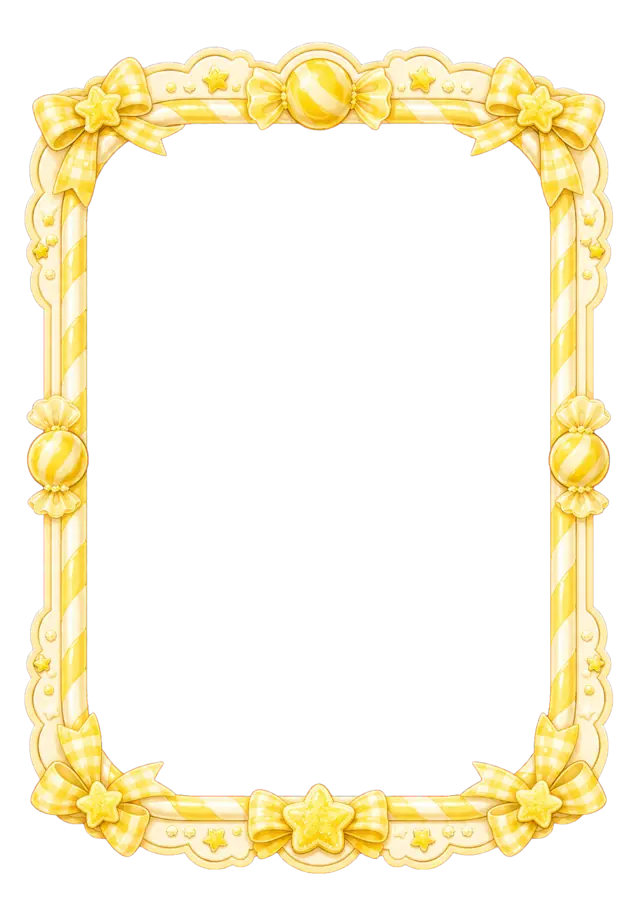
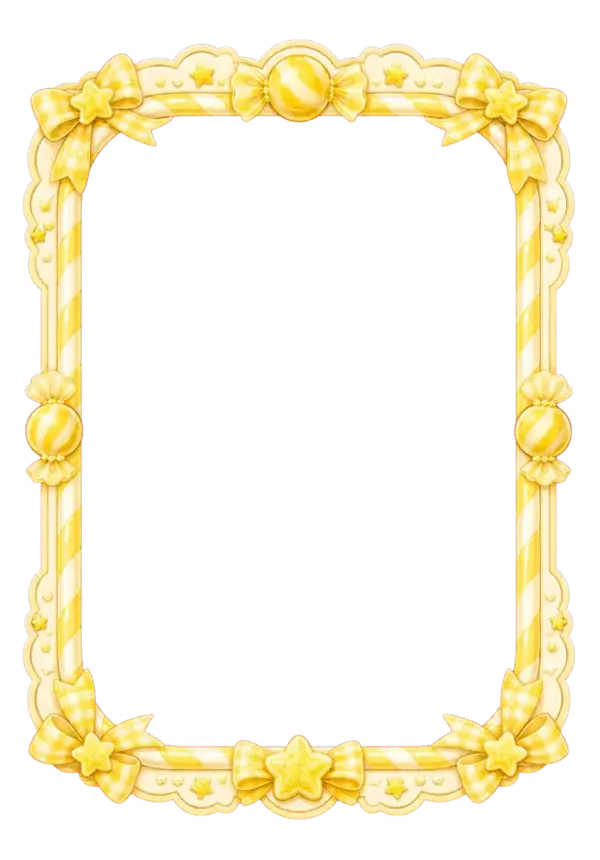
Align card framing and soften rarity glow

diff --git a/src/App.jsx b/src/App.jsx
@@ -287,6 +287,9 @@ export default function IdolZukan() {
           --lilac: #a777ef;
           --mint: #55cfae;
           --paper: url('/assets/textures/pearl-ui-surface.webp');
+          --card-ratio: 3 / 4.3;
+          --photo-window-inset: 5.3%;
+          --photo-position: 50% 50%;
           font-family: -apple-system, "Hiragino Sans", "Noto Sans JP", system-ui, sans-serif;
           background:
             linear-gradient(rgba(255,247,251,.76), rgba(255,247,251,.86)),
@@ -373,38 +376,43 @@ export default function IdolZukan() {
         }
 
         .grid { max-width: 1080px; margin: 0 auto; display: grid; grid-template-columns: repeat(auto-fill, minmax(168px, 1fr)); gap: 31px 21px; }
-        .card-slot { aspect-ratio: 3 / 4.3; position: relative; }
+        .card-slot { aspect-ratio: var(--card-ratio); position: relative; }
 
         .card-frame {
           position: relative; width: 100%; height: 100%; box-sizing: border-box; isolation: isolate;
         }
         .card-frame.rarity-SSR::before,
         .card-frame.rarity-UR::before {
-          content: ""; position: absolute; inset: -8%; z-index: -1; border-radius: 34%;
-          filter: blur(17px); animation: pulse-glow 2.7s ease-in-out infinite;
+          content: ""; position: absolute; inset: -5%; z-index: -1; border-radius: 34%;
+          filter: blur(23px); animation: pulse-glow 2.7s ease-in-out infinite;
+          pointer-events: none; will-change: opacity, transform;
         }
-        .card-frame.rarity-SSR::before { background: radial-gradient(ellipse, #a84dff 0%, #ffd766 48%, transparent 72%); opacity: .48; }
+        .card-frame.rarity-SSR::before {
+          --glow-low: .12; --glow-high: .26;
+          background: radial-gradient(ellipse, rgba(168,77,255,.86) 0%, rgba(255,215,102,.5) 42%, transparent 70%);
+        }
         .card-frame.rarity-UR::before {
-          background: conic-gradient(from 0deg, #FF6FA0, #FFD766, #5FD9B9, #6FA8FF, #B84DFF, #FF6FA0);
-          opacity: .46; animation: pulse-glow 2.7s ease-in-out infinite, hue-cycle 5.5s linear infinite;
+          --glow-low: .11; --glow-high: .24;
+          background: conic-gradient(from 0deg, rgba(255,111,160,.76), rgba(255,215,102,.72), rgba(95,217,185,.7), rgba(111,168,255,.72), rgba(184,77,255,.76), rgba(255,111,160,.76));
+          animation: pulse-glow 2.7s ease-in-out infinite, hue-cycle 5.5s linear infinite;
         }
-        @keyframes pulse-glow { 0%,100% { opacity: .28; transform: scale(.94); } 50% { opacity: .62; transform: scale(1.04); } }
-        @keyframes hue-cycle { from { filter: blur(17px) hue-rotate(0deg); } to { filter: blur(17px) hue-rotate(360deg); } }
+        @keyframes pulse-glow { 0%,100% { opacity: var(--glow-low, .12); transform: scale(.98); } 50% { opacity: var(--glow-high, .26); transform: scale(1.045); } }
+        @keyframes hue-cycle { from { filter: blur(23px) hue-rotate(0deg); } to { filter: blur(23px) hue-rotate(360deg); } }
         @keyframes gradient-shift { to { background-position: 300% 0; } }
 
         .candy-card {
           all: unset; box-sizing: border-box; display: block; cursor: pointer;
-          position: absolute; inset: 4.2% 5.3%; z-index: 1;
+          position: absolute; inset: var(--photo-window-inset); z-index: 1;
           background: white; border-radius: 16%; overflow: hidden;
           box-shadow: 0 13px 25px -13px rgba(74,46,67,.62), 0 3px 0 rgba(255,255,255,.8) inset;
           transition: transform .2s cubic-bezier(.2,.7,.2,1), filter .2s ease;
         }
         .card-frame:hover .candy-card { transform: translateY(-5px) rotate(-.8deg) scale(1.015); filter: saturate(1.04); }
         .candy-card:focus-visible { outline: 3px solid var(--rarity-solid); outline-offset: 4px; }
-        .candy-card.is-glow { box-shadow: 0 16px 29px -14px var(--rarity-solid), 0 3px 0 rgba(255,255,255,.85) inset; }
+        .candy-card.is-glow { box-shadow: 0 14px 27px -19px rgba(50,22,42,.52), 0 3px 0 rgba(255,255,255,.85) inset; }
 
         .card-frame-art, .modal-frame-art {
-          position: absolute; inset: 0; width: 100%; height: 100%; object-fit: fill;
+          position: absolute; inset: 0; width: 100%; height: 100%; object-fit: contain;
           pointer-events: none; user-select: none; z-index: 5;
         }
 
@@ -428,7 +436,9 @@ export default function IdolZukan() {
         }
         .portrait::after { content: ""; position: absolute; inset: 0; background: linear-gradient(180deg, transparent 54%, rgba(67,30,55,.26) 100%); pointer-events: none; }
         .portrait-glyph { font-size: 40px; font-weight: 900; color: white; text-shadow: 0 3px 0 rgba(0,0,0,.08); }
-        .portrait-photo { width: 100%; height: 100%; object-fit: cover; }
+        .portrait-photo, .frame-photo-img {
+          width: 100%; height: 100%; object-fit: cover; object-position: var(--photo-position);
+        }
         .sparkle { position: absolute; color: white; opacity: 0.85; font-size: 14px; }
         .sparkle-a { top: 12px; left: 14px; }
         .sparkle-b { bottom: 14px; right: 16px; font-size: 11px; }
@@ -483,7 +493,7 @@ export default function IdolZukan() {
         .modal-close:hover { color: var(--pink); transform: scale(1.05); }
         .modal-close:focus-visible { outline: 3px solid rgba(255,255,255,.7); outline-offset: 3px; }
 
-        .flip-container { width: 100%; aspect-ratio: 3 / 4.3; cursor: pointer; perspective: 1400px; }
+        .flip-container { width: 100%; aspect-ratio: var(--card-ratio); cursor: pointer; perspective: 1400px; }
         .flip-card {
           position: relative; width: 100%; height: 100%;
           transform-style: preserve-3d; transition: transform 0.6s cubic-bezier(.4,.2,.2,1);
@@ -507,15 +517,16 @@ export default function IdolZukan() {
           filter: drop-shadow(0 19px 18px rgba(42,16,34,.36));
         }
         .flip-face.flip-front .modal-glow {
-          position: absolute; inset: -10%; z-index: -1; border-radius: 38%;
-          background: radial-gradient(circle, var(--rarity-solid) 0%, transparent 70%);
-          filter: blur(27px); opacity: .52; animation: pulse-glow 2.7s ease-in-out infinite;
+          --glow-low: .14; --glow-high: .28;
+          position: absolute; inset: -6%; z-index: -1; border-radius: 38%;
+          background: radial-gradient(circle, color-mix(in srgb, var(--rarity-solid) 76%, transparent) 0%, transparent 68%);
+          filter: blur(32px); animation: pulse-glow 2.7s ease-in-out infinite;
+          pointer-events: none; will-change: opacity, transform;
         }
 
         .ornate-frame { position: relative; width: 100%; height: 100%; border-radius: 26px; }
-        .frame-photo { position: absolute; inset: 4.2% 5.3%; border-radius: 16%; overflow: hidden; background: linear-gradient(160deg, var(--accent) 0%, var(--soft) 140%); display: flex; align-items: center; justify-content: center; }
+        .frame-photo { position: absolute; inset: var(--photo-window-inset); border-radius: 16%; overflow: hidden; background: linear-gradient(160deg, var(--accent) 0%, var(--soft) 140%); display: flex; align-items: center; justify-content: center; }
         .frame-photo::after { content: ""; position: absolute; inset: 0; background: linear-gradient(180deg, transparent 58%, rgba(44,17,35,.4)); pointer-events: none; }
-        .frame-photo-img { width: 100%; height: 100%; object-fit: cover; }
         .frame-photo-glyph { font-size: 64px; font-weight: 800; color: white; text-shadow: 0 3px 0 rgba(0,0,0,0.1); }
 
         .nameplate {
